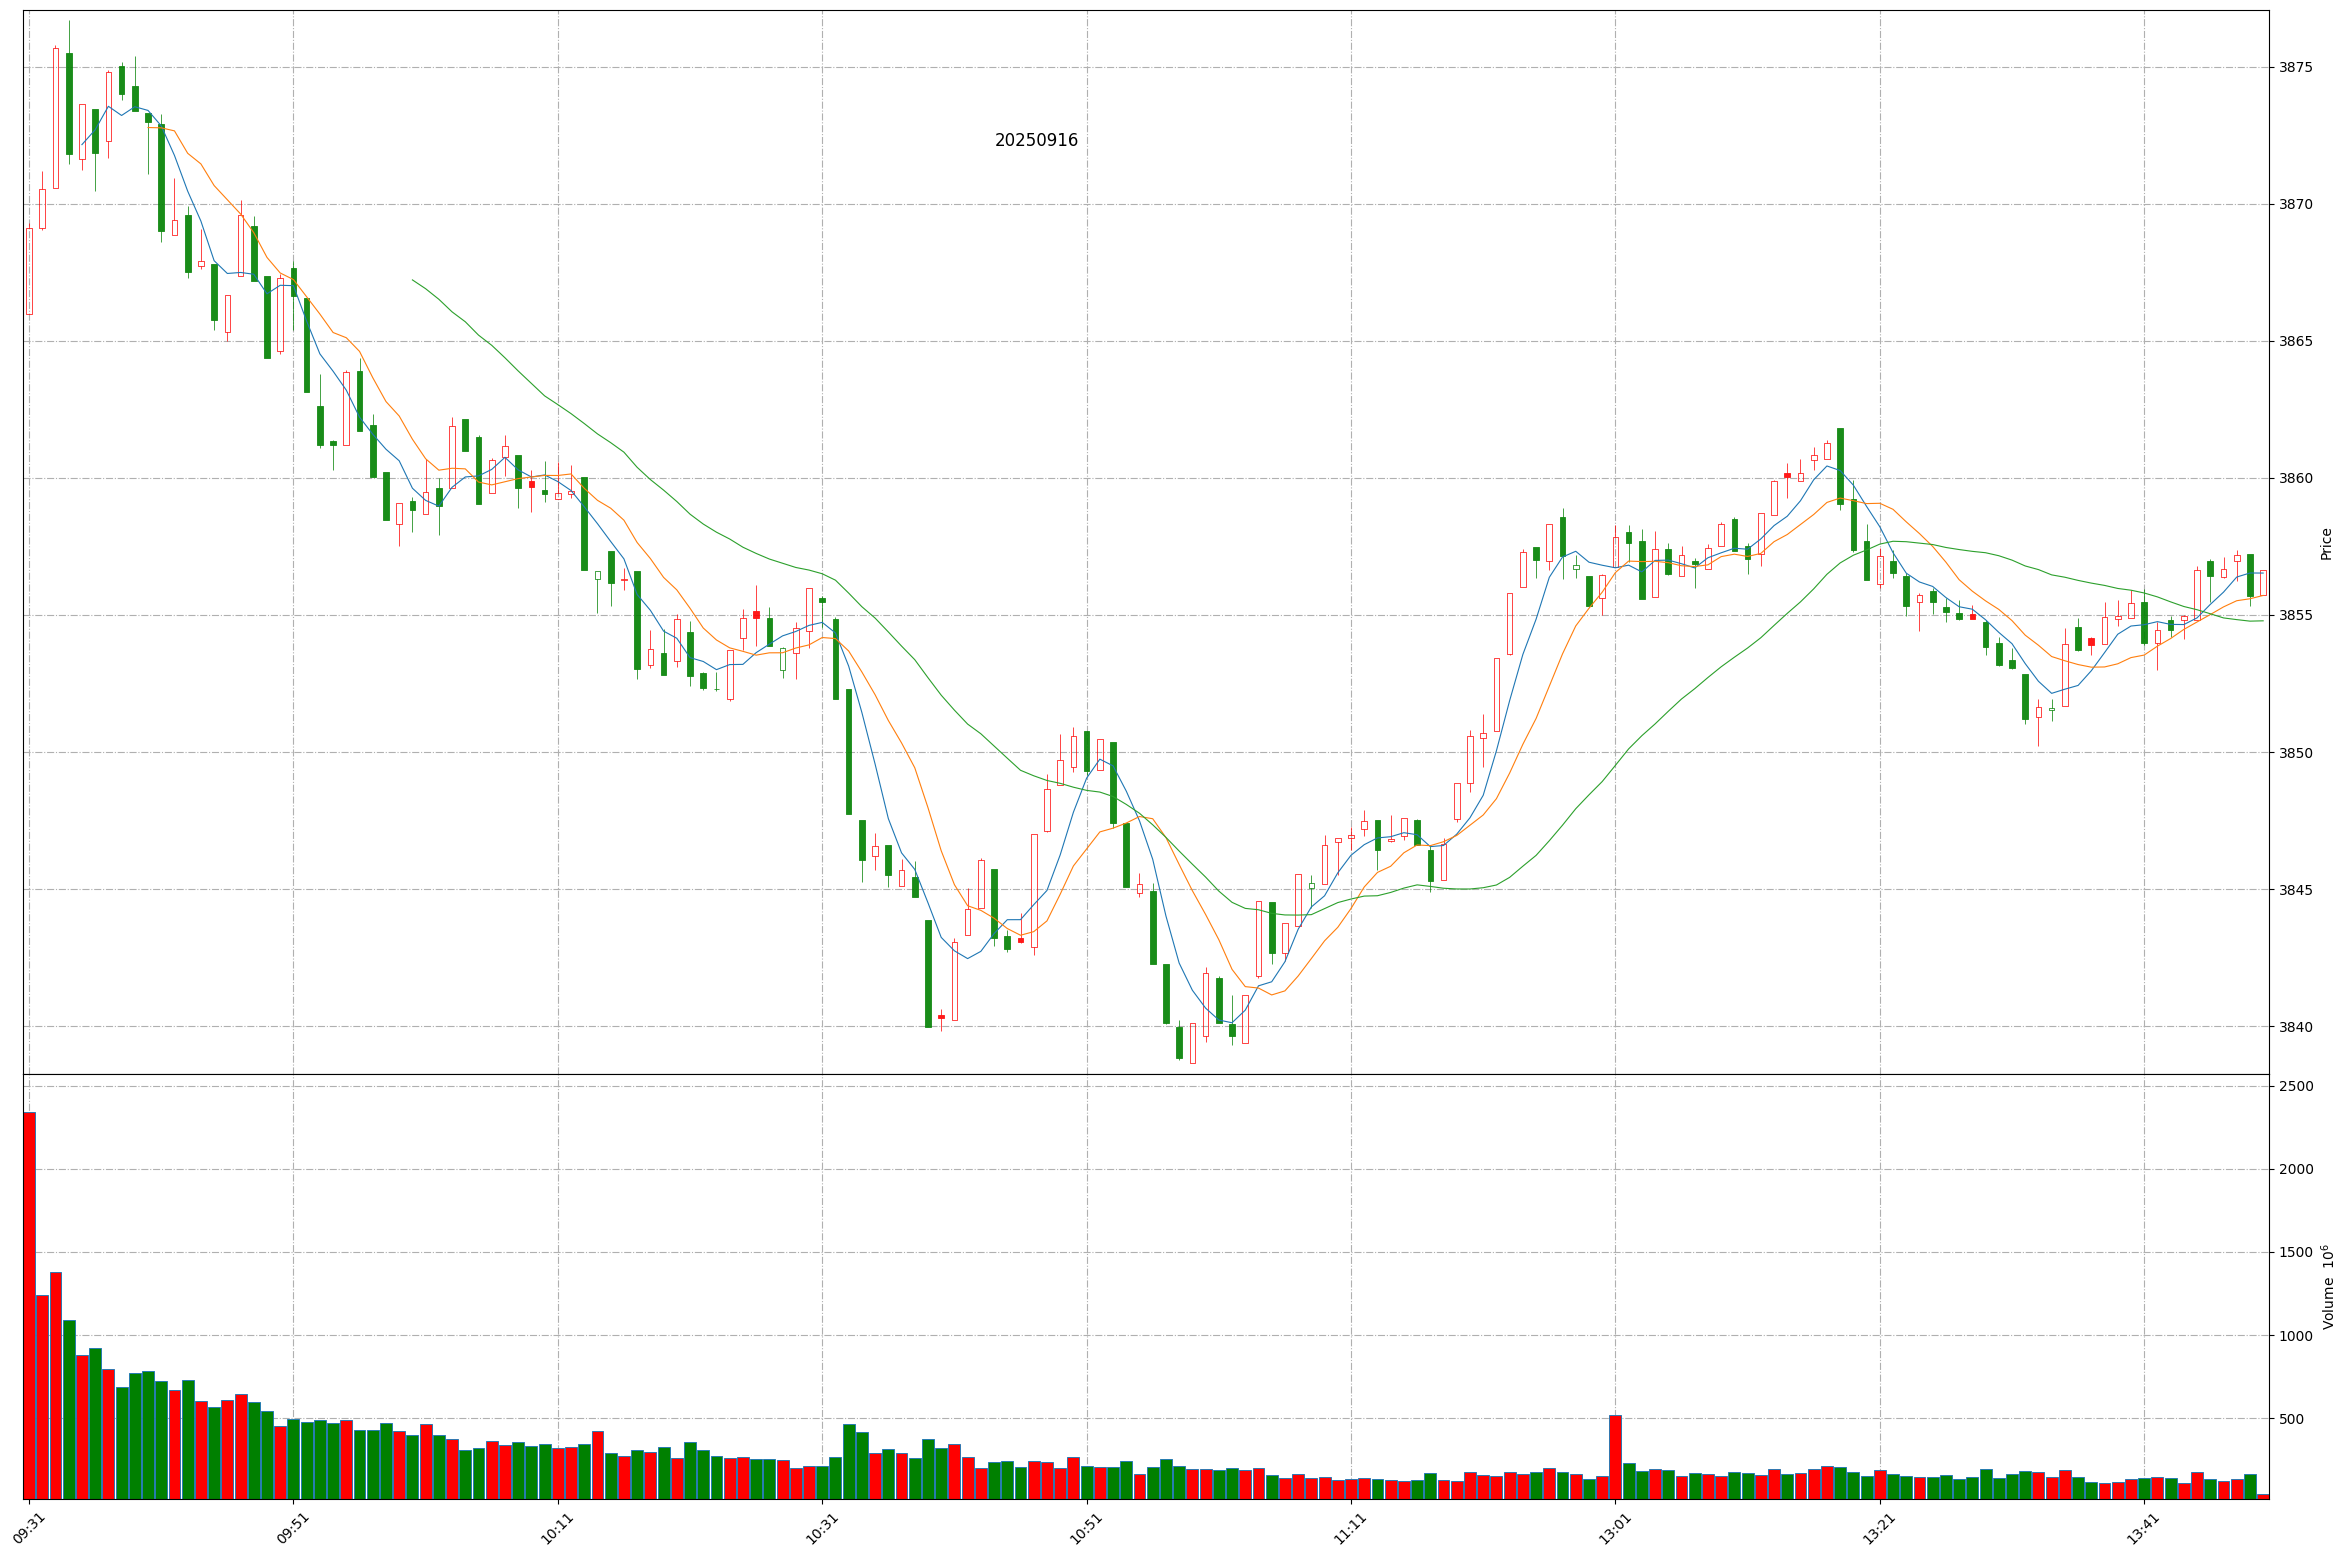
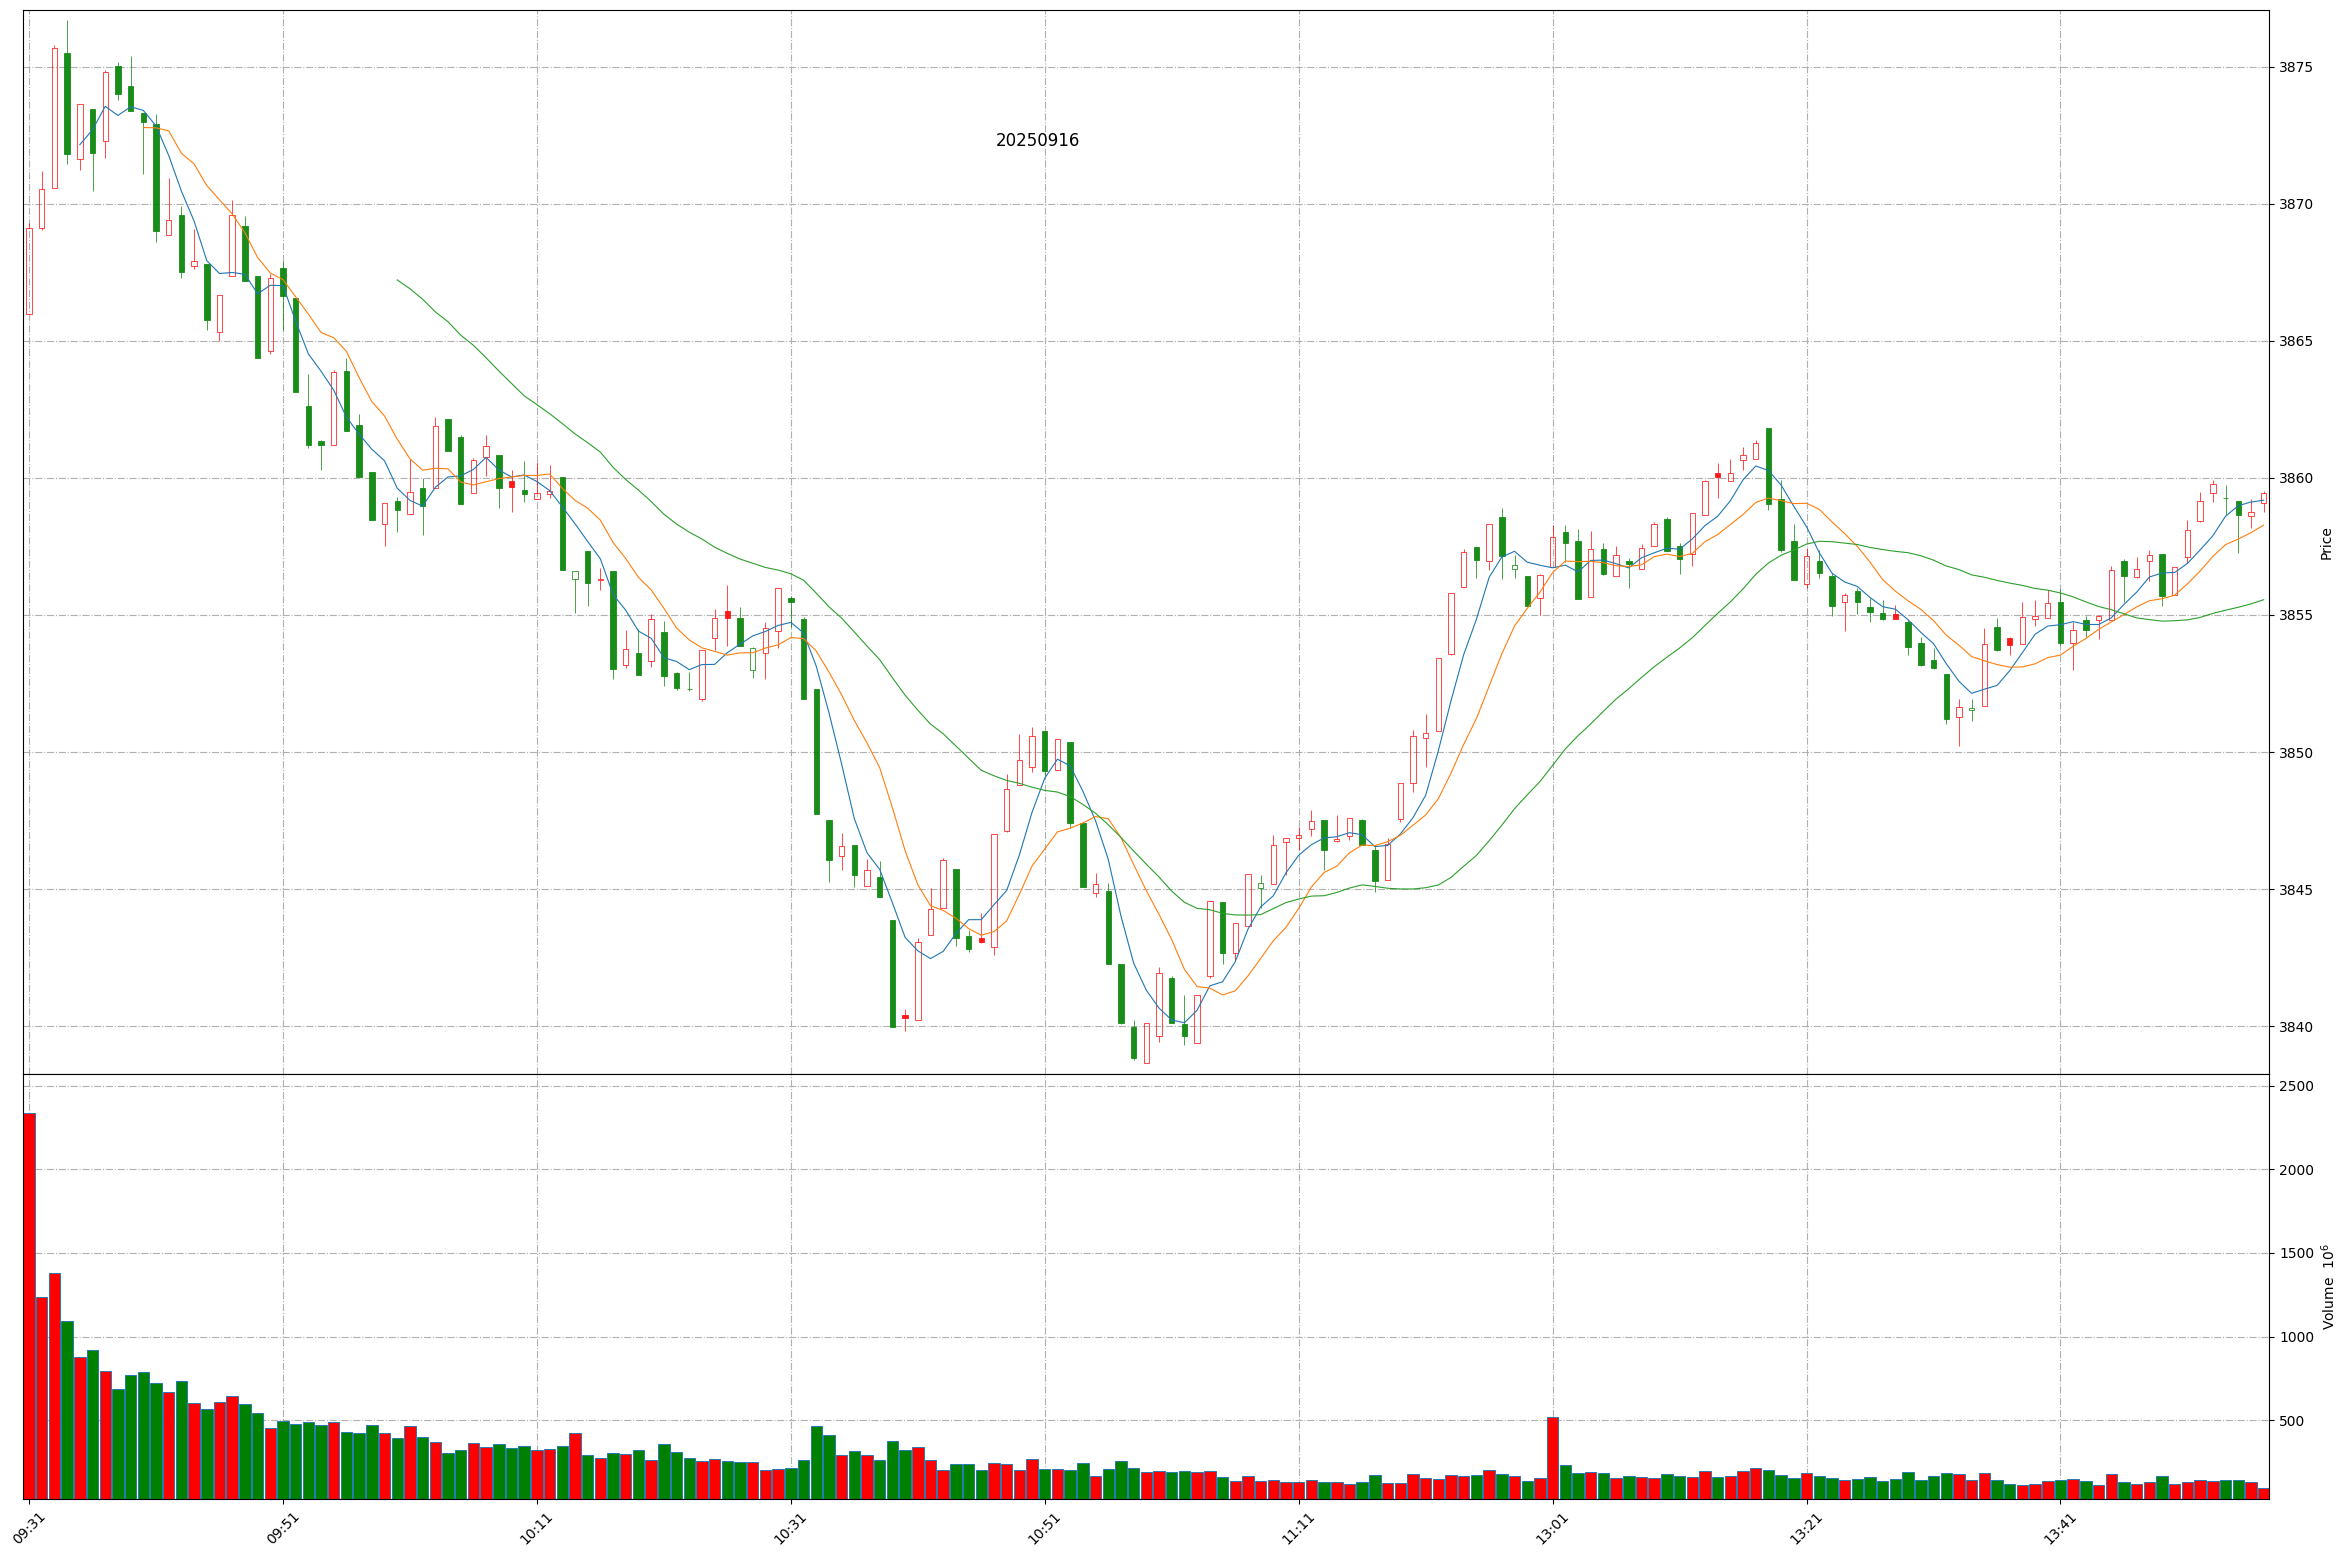
Github action update at 2025-09-16 13:56:57.

diff --git a/README.md b/README.md
@@ -1,11 +1,11 @@
 
 # Daily-A-share-market-quotes 每日 A 股指数（5min 更新）- 20250916
 
-### 上证指数 20250916 13:49
+### 上证指数 20250916 13:56
 ![](./fig/2025/9/20250916-sh000001.png)
 
-### 深证成指 20250916 13:49
+### 深证成指 20250916 13:56
 ![](./fig/2025/9/20250916-sz399001.png)
 
-### 北证50 20250916 13:49
+### 北证50 20250916 13:56
 ![](./fig/2025/9/20250916-bj899050.png)
